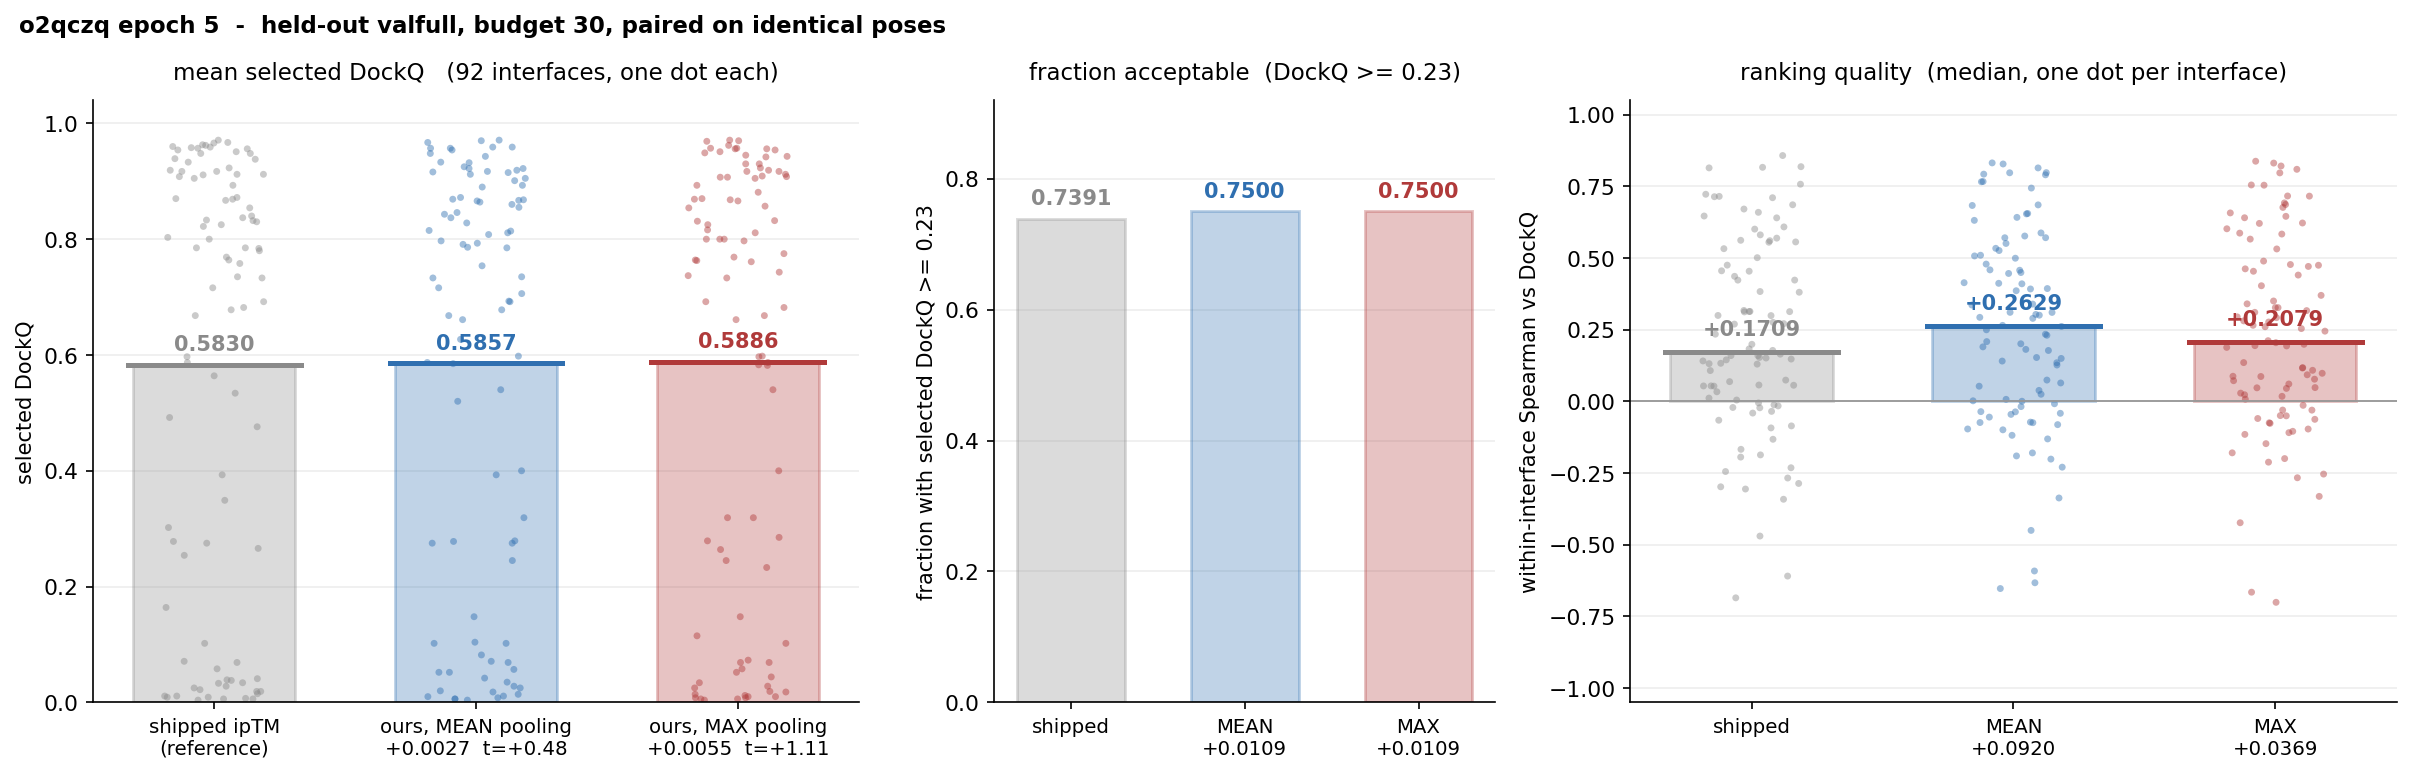
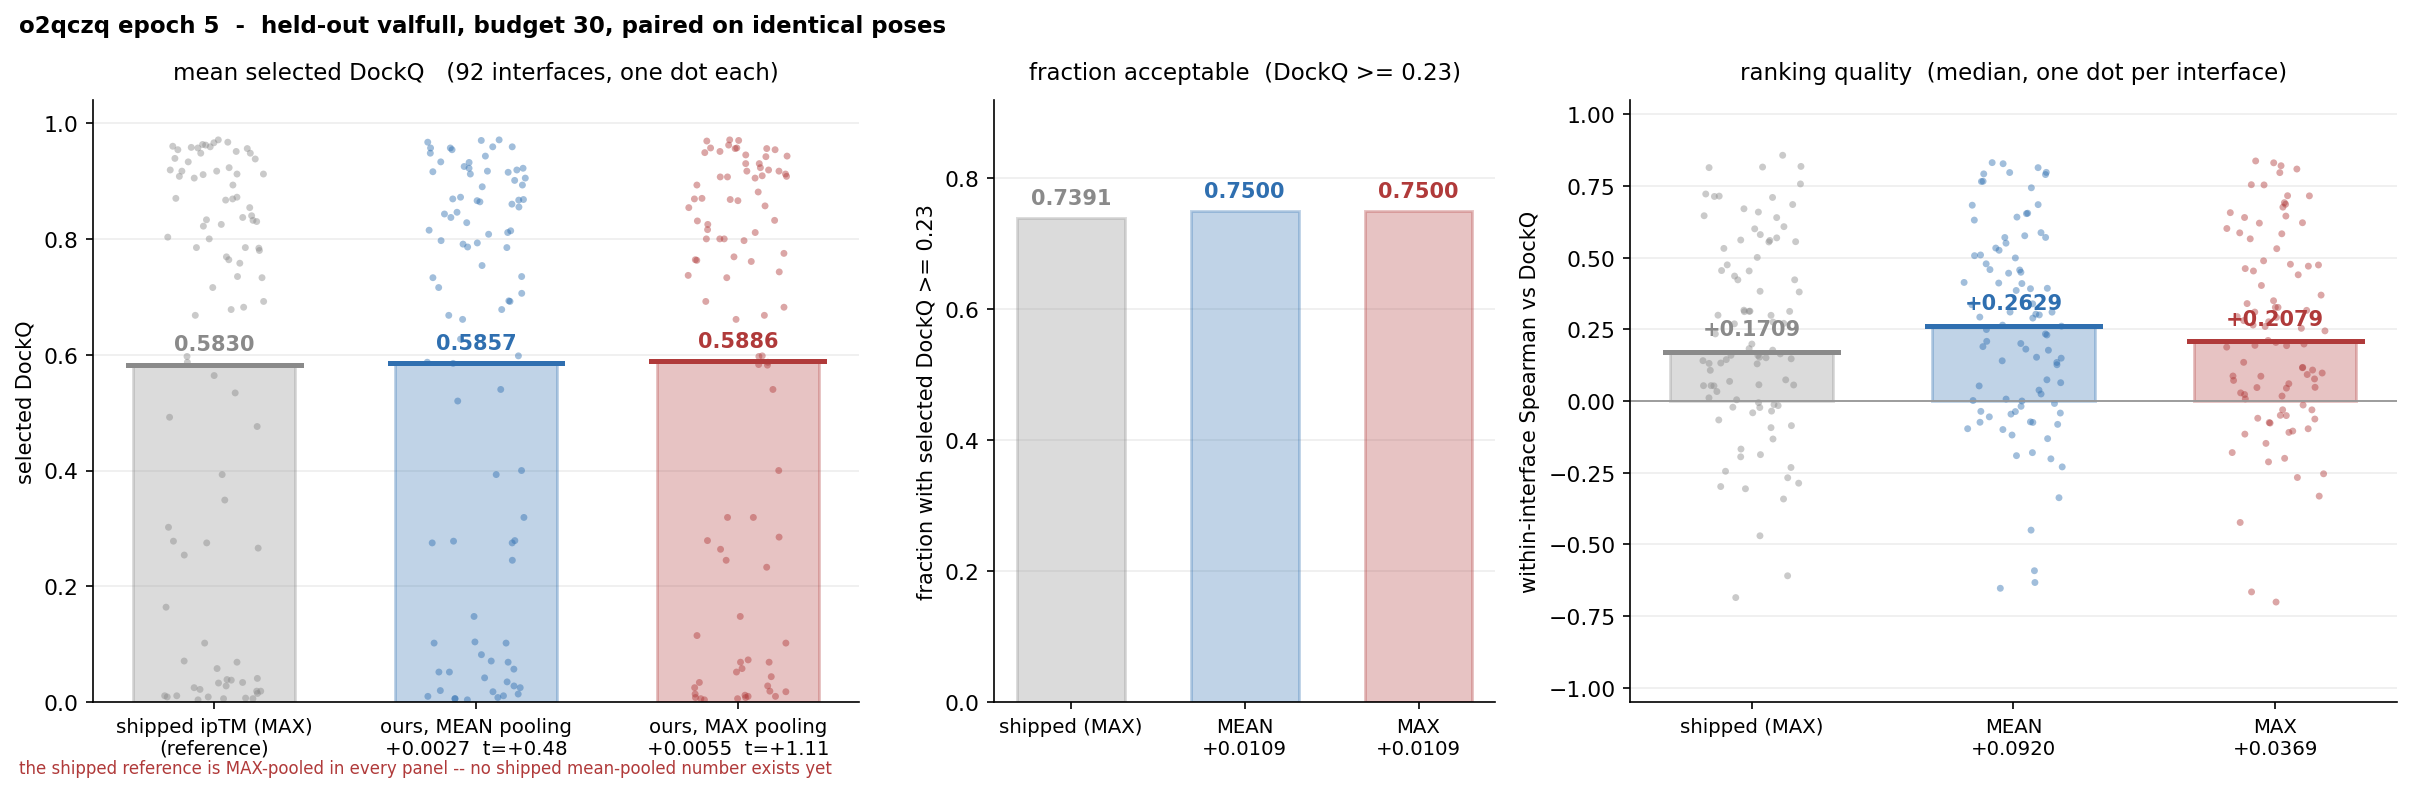
label the shipped bar '(MAX)' in every panel, not just a footnote
A footnote on one figure is not enough: in the mean-pooling figure the
comparison is shipped-MAX against ours-MEAN, and a reader scanning the bars
should not have to find the note to know that. The tick label now says
'shipped (MAX)' in all three panels of both figures, and the red footnote
appears on both.

Nothing has ever run the shipped head with --pool-mean, so there is no shipped
mean-pooled number to compare against; the eval pass that closes it is scheduled
for tomorrow at the user's direction.

Claude-Session: https://claude.ai/code/session_014t55QPNWnMkjqFi95YVBtG

diff --git a/extra_training/run_logging/plot_rel_bars.py b/extra_training/run_logging/plot_rel_bars.py
@@ -98,7 +98,11 @@ ep = int(re.search(r"ep(\d+)$", d).group(1))
 by, full, keep = load(d)
 n = len(keep)
 pick = lambda j: np.array([max(by[i], key=lambda t: t[j])[3] for i in keep])  # noqa: E731
-_ALL_S = [("shipped ipTM", pick(2), "#8a8a8a"),
+# THE SHIPPED BAR SAYS "MAX" IN ITS OWN LABEL, in every figure. A footnote on one figure is not
+# enough: the comparison is shipped-MAX against ours-MEAN there, and a reader scanning the bars
+# should not have to find the note to know that. Nothing has ever run the shipped head with
+# --pool-mean, so there is no shipped mean-pooled number to compare against.
+_ALL_S = [("shipped ipTM (MAX)", pick(2), "#8a8a8a"),
           ("ours, MEAN pooling", pick(1), "#2f6fb0"),
           ("ours, MAX pooling", pick(0), "#b03a3a")]
 if ONLY == "mean":
@@ -117,7 +121,8 @@ OUT = (f"figures/rel_bars_{RID}_{ONLY}.png" if ONLY
 RHO = {}
 try:
     from scipy import stats as _stt
-    for _nm, _j in (("shipped ipTM", 2), ("ours, MEAN pooling", 1), ("ours, MAX pooling", 0)):
+    for _nm, _j in (("shipped ipTM (MAX)", 2), ("ours, MEAN pooling", 1),
+                    ("ours, MAX pooling", 0)):
         _v = []
         for _ifc in keep:
             _a = np.array([[x[_j], x[3]] for x in by[_ifc]], dtype=float)
@@ -177,7 +182,8 @@ bx.set_xticks(xs)
 _bl = []
 _fb = float((base >= 0.23).mean())
 for i, (nm, v, _c) in enumerate(S):
-    short = nm.replace("ours, ", "").replace(" pooling", "").replace("shipped ipTM", "shipped")
+    short = (nm.replace("ours, ", "").replace(" pooling", "")
+               .replace("shipped ipTM (MAX)", "shipped (MAX)"))
     _bl.append(short if i == 0
                else f"{short}\n{float((v >= 0.23).mean()) - _fb:+.4f}")
 bx.set_xticklabels(_bl, fontsize=9.5)
@@ -191,7 +197,7 @@ bx.set_axisbelow(True)
 # median rather than the mean because that is the statistic reported everywhere else for this
 # quantity, and a per-interface rho distribution is skewed and has negative values.
 if cx is not None:
-    _rb = np.median(RHO["shipped ipTM"])
+    _rb = np.median(RHO["shipped ipTM (MAX)"])
     for i, (nm, _v, col) in enumerate(S):
         _r = RHO.get(nm)
         if _r is None or not len(_r):
@@ -207,7 +213,7 @@ if cx is not None:
     cx.axhline(0.0, color="#999999", lw=0.9)
     cx.set_xticks(xs)
     cx.set_xticklabels(
-        [(nm.replace("ours, ", "").replace(" pooling", "").replace("shipped ipTM", "shipped")
+        [(nm.replace("ours, ", "").replace(" pooling", "").replace("shipped ipTM (MAX)", "shipped (MAX)")
           + ("" if i == 0 else
              f"\n{float(np.median(RHO[nm])) - _rb:+.4f}"))
          for i, (nm, _v, _c) in enumerate(S)], fontsize=9.5)
@@ -223,10 +229,12 @@ fig.text(0.012, 0.985, f"{RID} epoch {ep}  -  held-out valfull, budget 30, "
          f"paired on identical poses"
          + (f"   [{ONLY.upper()} pooling]" if ONLY else ""),
          fontsize=11, fontweight="bold", va="top")
-if ONLY == "mean":
-    fig.text(0.012, 0.012, "note: the shipped reference is MAX-pooled -- no shipped mean-pooled "
-             "number exists yet, so part of this gap could be the pooling rather than the "
-             "training", fontsize=8, color="#b03a3a")
+fig.text(0.012, 0.012,
+         "the shipped reference is MAX-pooled in every panel -- no shipped mean-pooled number "
+         "exists yet"
+         + (", so part of this gap could be the pooling rather than the training"
+            if ONLY == "mean" else ""),
+         fontsize=8, color="#b03a3a")
 if BEST and len(ALL) > 1:
     fig.text(0.012, 0.945, f"BEST of {len(ALL)} eval epochs by mean-pooled DockQ -- a "
              f"best-of-N number is biased upward; see the per-epoch table",
@@ -245,7 +253,7 @@ try:
     from scipy import stats as _st
     print("\n  held-out WITHIN-INTERFACE SPEARMAN (median over interfaces):")
     _rhos = {}
-    for _nm, _j in (("shipped ipTM", 2), ("ours, MEAN", 1), ("ours, MAX", 0)):
+    for _nm, _j in (("shipped (MAX)", 2), ("ours, MEAN", 1), ("ours, MAX", 0)):
         _v = []
         for _ifc in keep:
             _a = np.array([[x[_j], x[3]] for x in by[_ifc]], dtype=float)
@@ -254,7 +262,7 @@ try:
         _v = np.array(_v)
         _rhos[_nm] = _v
         _d = ("" if _j == 2 else
-              f"   {np.median(_v) - np.median(_rhos['shipped ipTM']):+.4f} vs shipped")
+              f"   {np.median(_v) - np.median(_rhos['shipped (MAX)']):+.4f} vs shipped")
         print(f"    {_nm:>14}  median {np.median(_v):+.4f}  mean {_v.mean():+.4f}  "
               f"negative {100*(_v < 0).mean():.0f}%{_d}")
 except ImportError:
